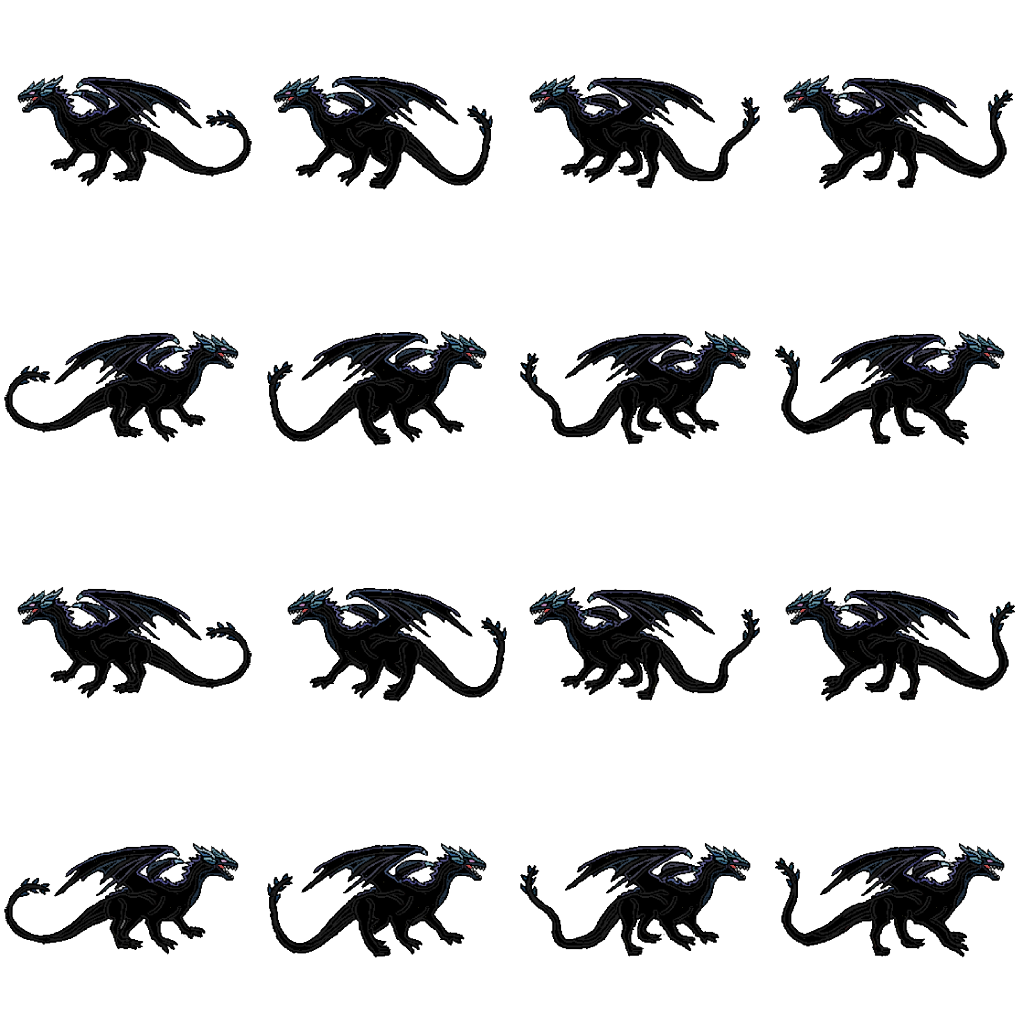
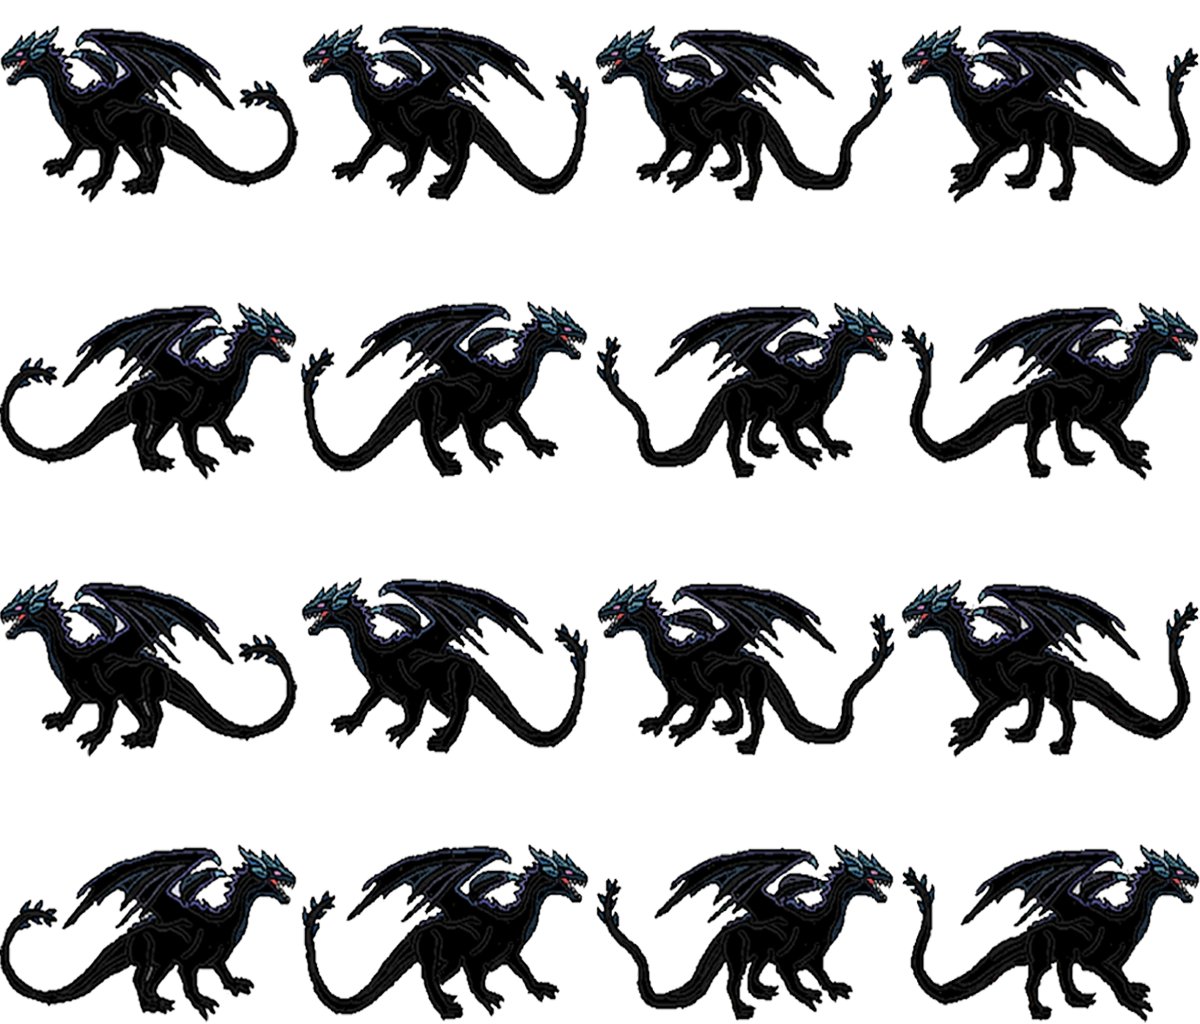
Enemyの画像を調整

diff --git a/Source/Enemy.h b/Source/Enemy.h
@@ -22,8 +22,8 @@ private:
 
 	int mnCurrentFrame;
 	int mnFrameTimer;
-	static const int FRAME_WIDTH = 256;
+	static const int FRAME_WIDTH = 300;
 	static const int FRAME_HEIGHT = 256;
 	static const int TOTAL_FRAMES = 4;
-	static const int FRAME_INTERVAL = 9;
+	static const int FRAME_INTERVAL = 13;
 };

diff --git a/Source/Enemy.cpp b/Source/Enemy.cpp
@@ -51,7 +51,7 @@ void Enemy::Draw()
 	{
 		const int srcX = mnCurrentFrame * FRAME_WIDTH;
 
-		int srcY = 335;
+		int srcY = 293;
 
 		if (isDamaged)
 		{
